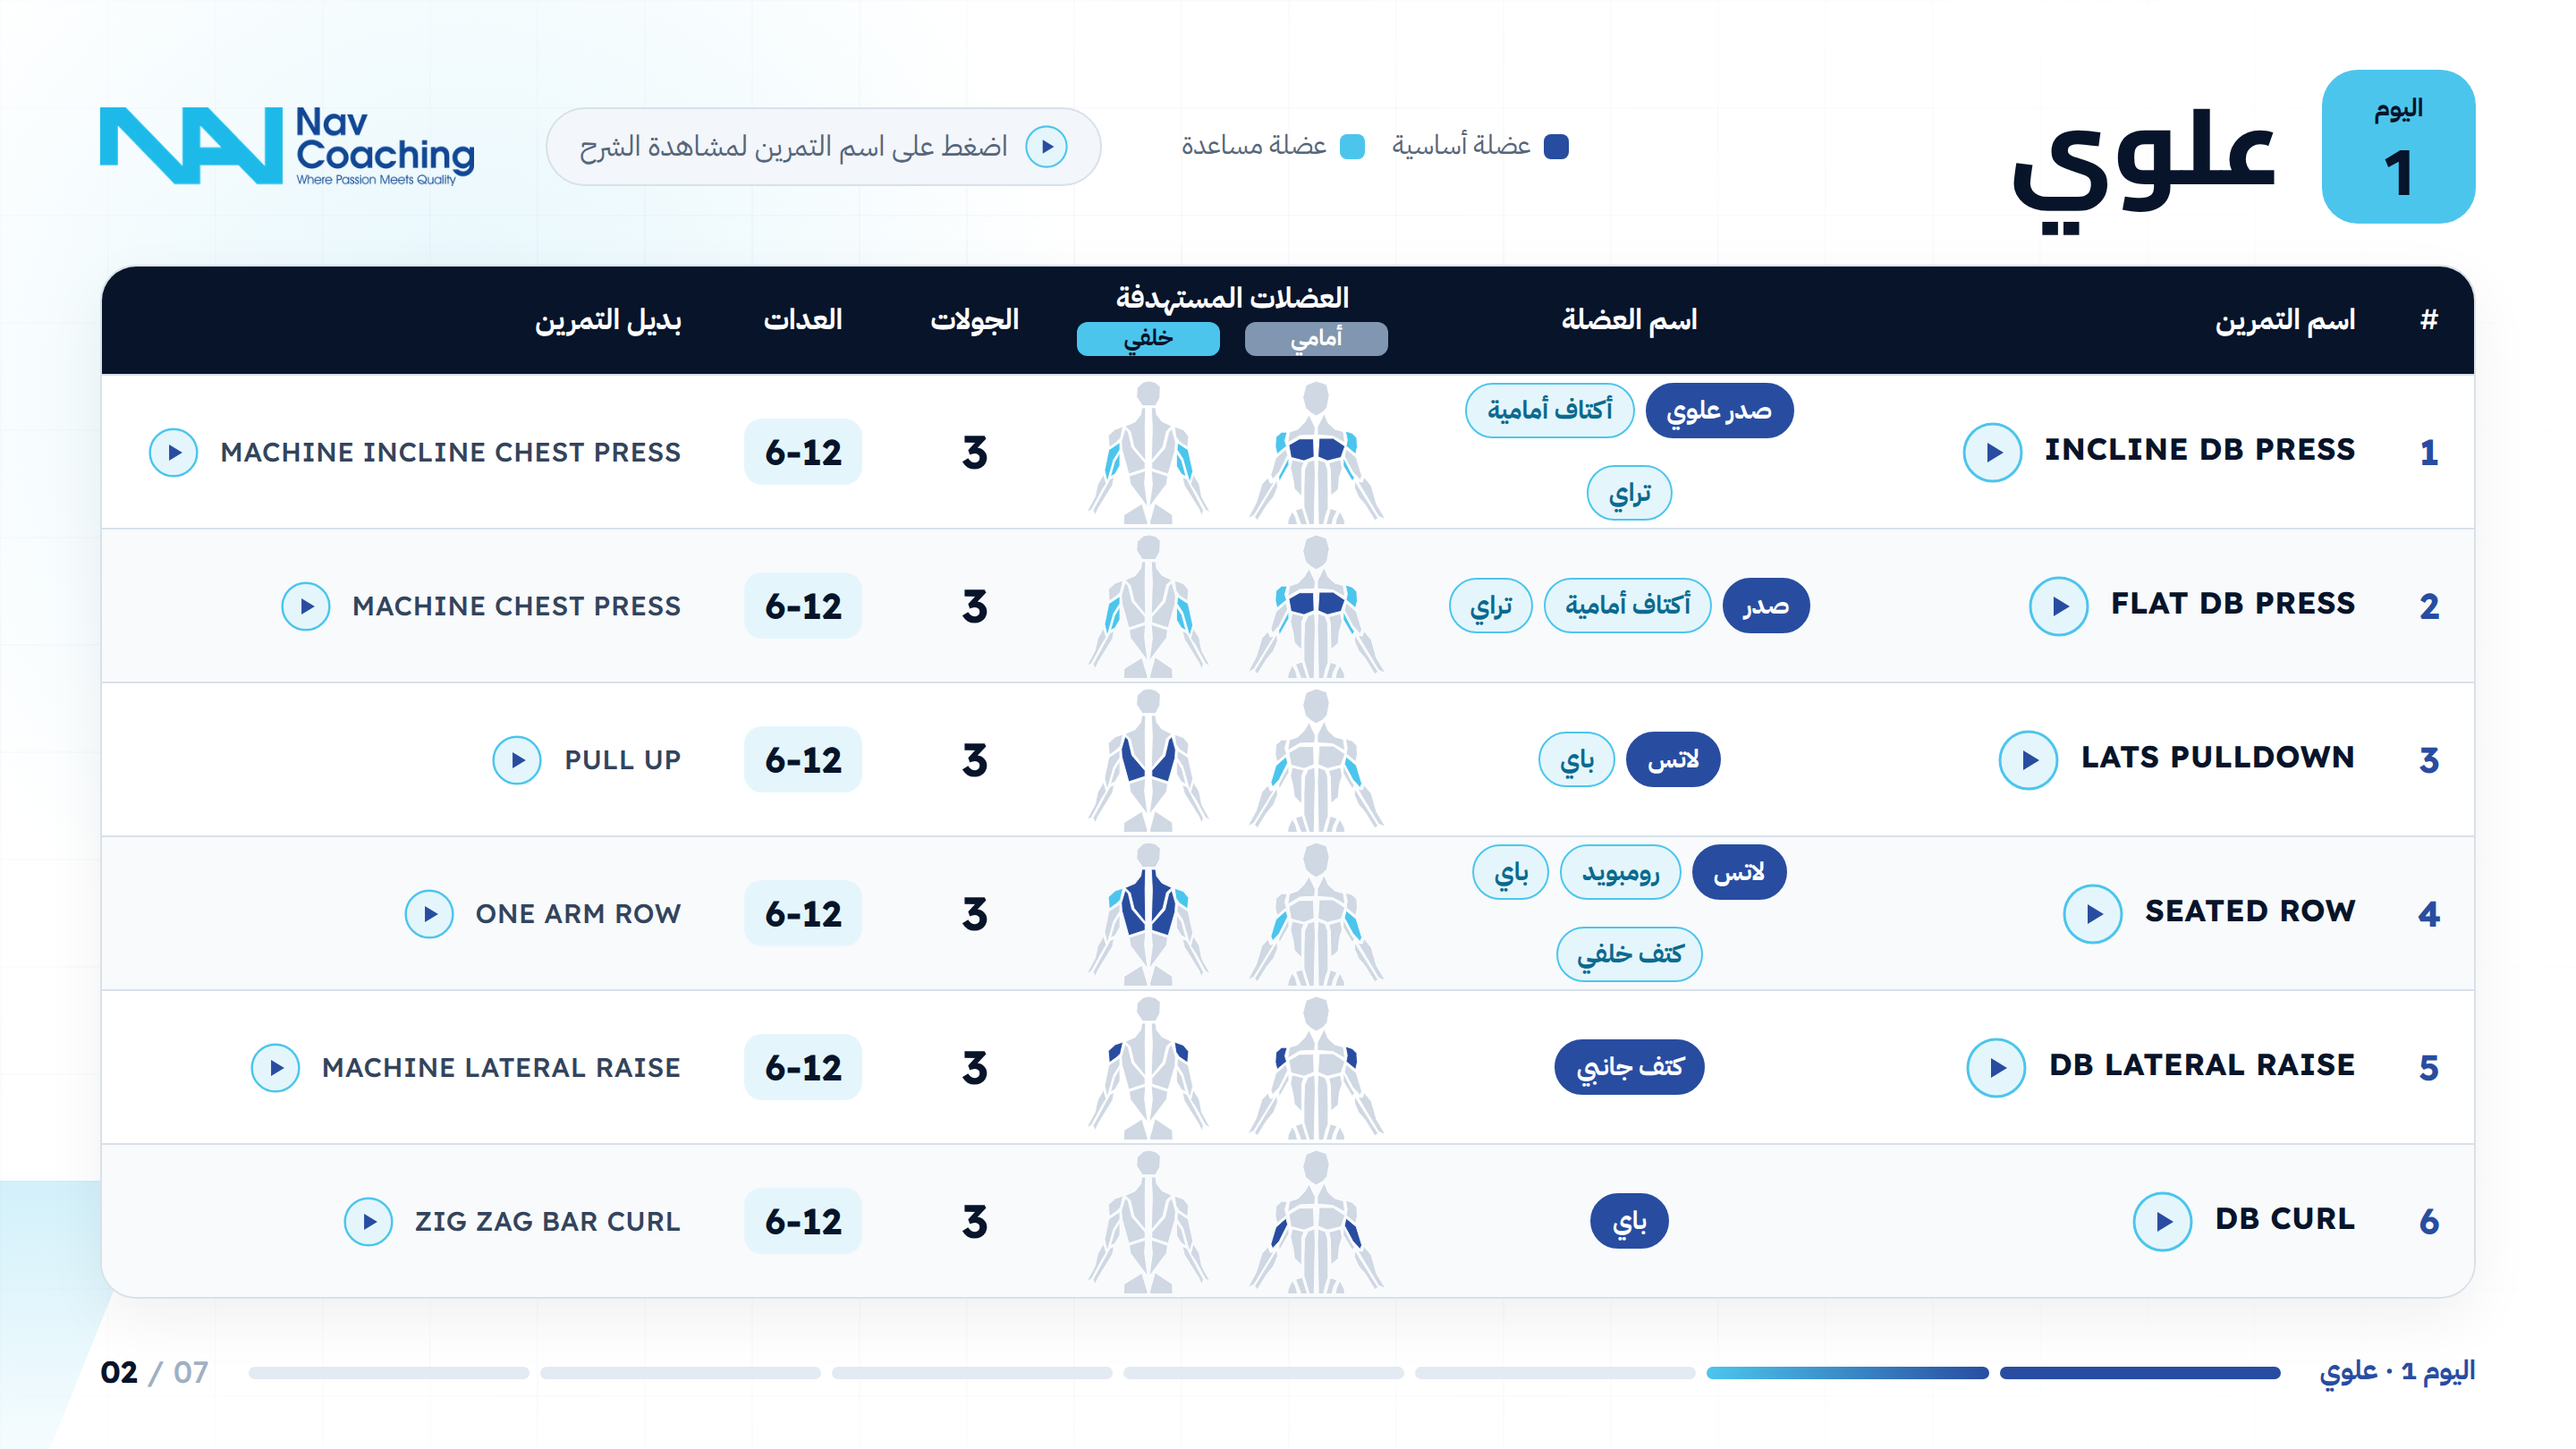
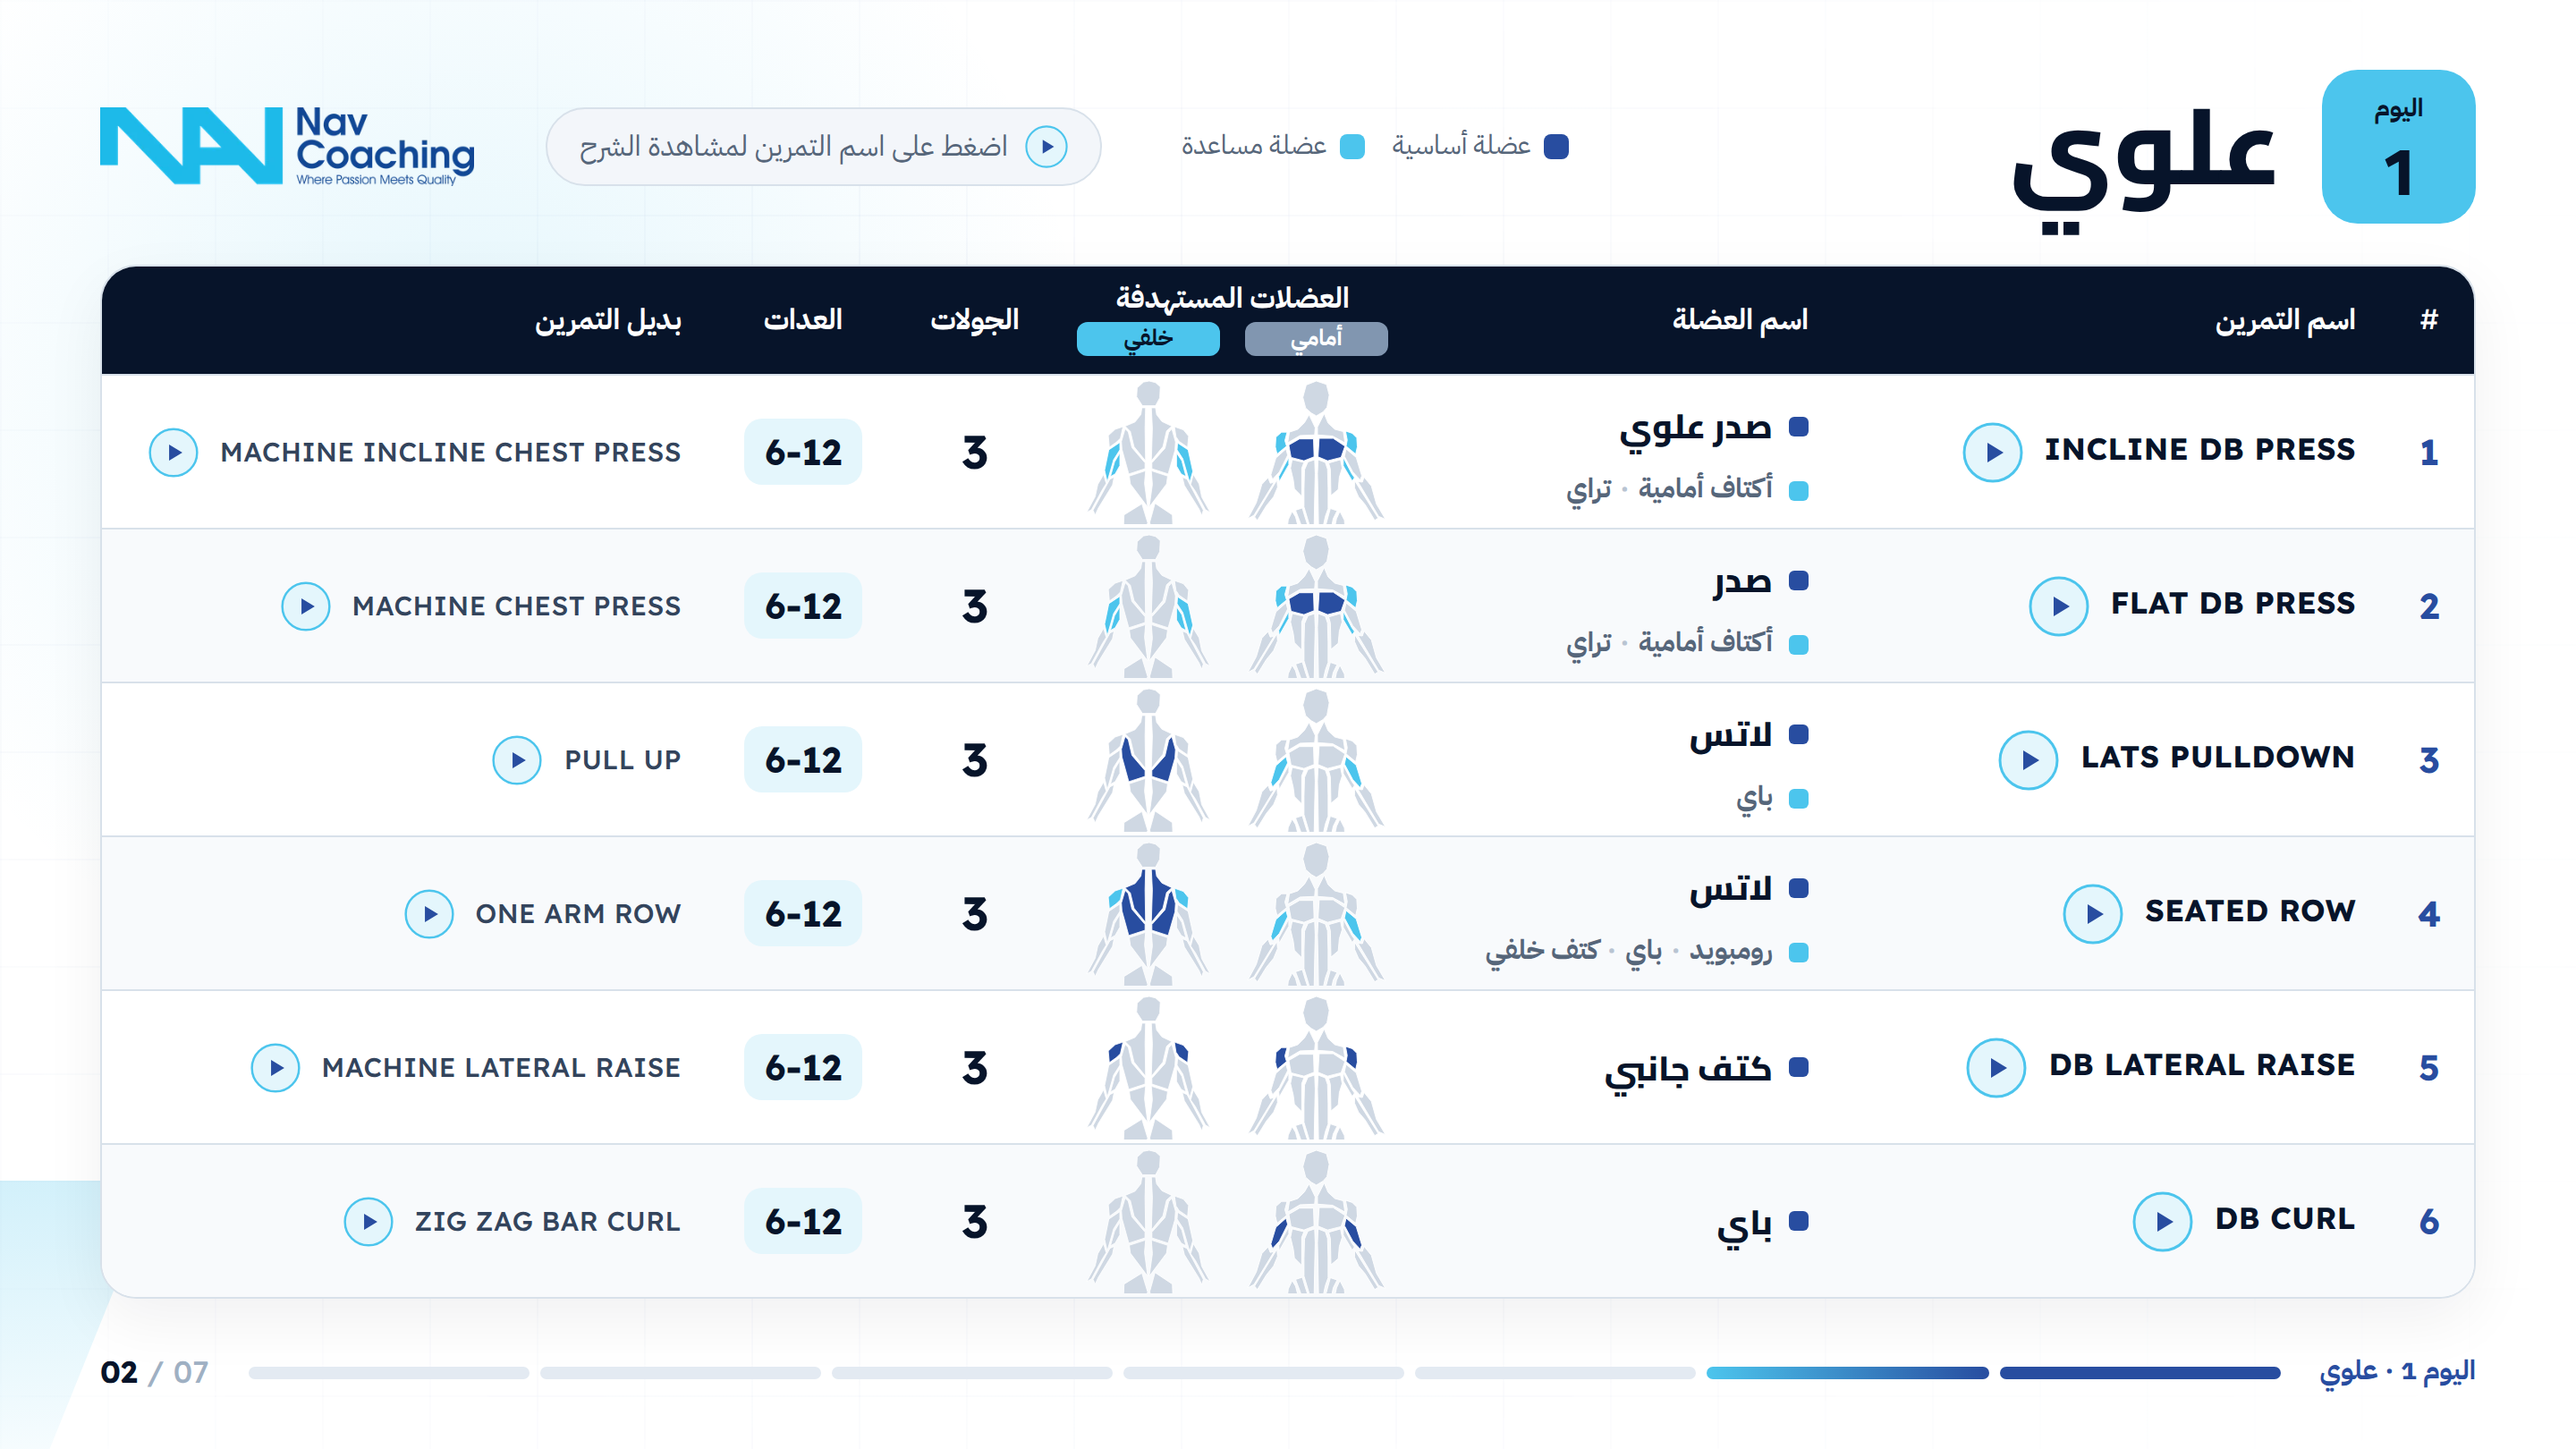
Program PDF: cleaner two-line muscle-name column
Claude-Session: https://claude.ai/code/session_018Z9fQ6WXKqVkgdznS9iWHe

diff --git a/pdf/program.html b/pdf/program.html
@@ -77,7 +77,13 @@ a{color:inherit;text-decoration:none}
 .lnk:hover b{color:var(--navy)}
 .alt .lnk b{font-weight:500;color:#33445c;font-size:15px}
 .alt .lnk .pl{width:28px;height:28px}
-.tags{display:flex;flex-wrap:wrap;gap:6px;justify-content:center;padding:0 10px}
+.tags{flex-direction:column;align-items:flex-start!important;justify-content:center!important;gap:7px;padding:0 22px}
+.mrow{display:flex;align-items:center;gap:9px;line-height:1.2}
+.mrow i{flex:none;width:11px;height:11px;border-radius:3px;background:var(--navy)}
+.mrow.p b{font:800 19px Cairo;color:var(--ink)}
+.mrow.s i{background:var(--cyan)}
+.mrow.s span{font:600 15px "IBM Plex Sans Arabic";color:var(--muted)}
+.mrow.s span em{font-style:normal;color:#b8c4d2;margin:0 5px}
 .tag{font:700 14px "IBM Plex Sans Arabic";padding:4px 11px;border-radius:99px;background:var(--cyan-soft);border:1.5px solid var(--cyan);color:var(--cyan-ink);white-space:nowrap}
 .tag.p{background:var(--navy);border-color:var(--navy);color:#fff}
 .lg{display:flex;gap:16px;font:500 15px "IBM Plex Sans Arabic";color:var(--muted)}.lg span{display:flex;align-items:center;gap:7px}.lg i{width:14px;height:14px;border-radius:4px;background:var(--navy)}.lg i.s{background:var(--cyan)}
@@ -162,10 +168,10 @@ DAYS.forEach(d=>{
    +'<div class="top"><div class="badge '+d.cls+'"><small>اليوم</small>'+d.n+'</div><h2>'+d.title+'</h2>'
    +'<div class="lg" style="margin-right:auto"><span><i></i>عضلة أساسية</span><span><i class="s"></i>عضلة مساعدة</span></div><div class="hint" style="margin-right:22px">'+PLAY.replace('class="pl"','class="pl" style="width:24px;height:24px"')+'اضغط على اسم التمرين لمشاهدة الشرح</div>'
    +'<img class="logo" src="../brand/logo-color.webp" alt="Nav Coaching"></div>'
-   +'<div class="tbl"><div class="tr th"><div>#</div><div class="r">اسم التمرين</div><div>اسم العضلة</div><div class="fh">العضلات المستهدفة<div><span>أمامي</span><span class="b">خلفي</span></div></div><div>الجولات</div><div>العدات</div><div class="alt-h">بديل التمرين</div></div>';
+   +'<div class="tbl"><div class="tr th"><div>#</div><div class="r">اسم التمرين</div><div class="r" style="padding-right:22px">اسم العضلة</div><div class="fh">العضلات المستهدفة<div><span>أمامي</span><span class="b">خلفي</span></div></div><div>الجولات</div><div>العدات</div><div class="alt-h">بديل التمرين</div></div>';
   d.rows.forEach((r,i)=>{const [name,id,mus,pri,sec,sets,reps,alt,altId]=r;
     html+='<div class="tr td"><div class="idx">'+(i+1)+'</div><div class="ex">'+lnk(name,id)+'</div>'
-     +'<div class="tags">'+mus.map((m,k)=>'<span class="tag'+(k===0?' p':'')+'">'+m+'</span>').join('')+'</div>'
+     +'<div class="tags"><div class="mrow p"><i></i><b>'+mus[0]+'</b></div>'+(mus.length>1?'<div class="mrow s"><i></i><span>'+mus.slice(1).join('<em>·</em>')+'</span></div>':'')+'</div>'
      +'<div class="fig"><div class="v">'+body('f',pri,sec)+'</div><div class="v b">'+body('b',pri,sec)+'</div></div>'
      +'<div class="num">'+sets+'</div><div><span class="rep">'+reps+'</span></div><div class="alt">'+lnk(alt,altId)+'</div></div>';});
   html+='</div></section>';
